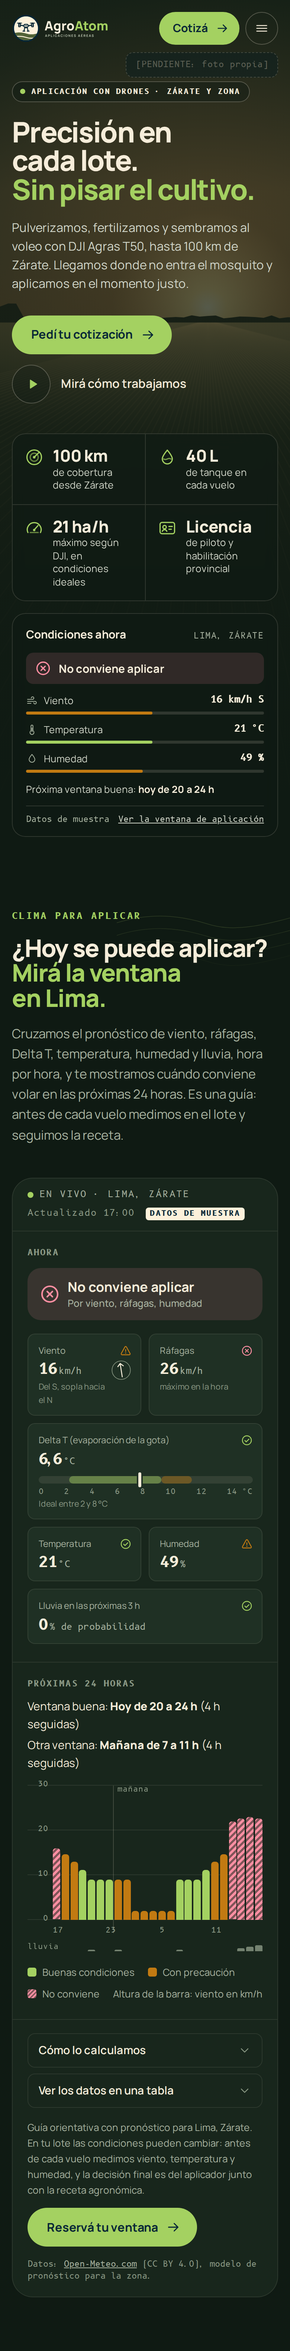
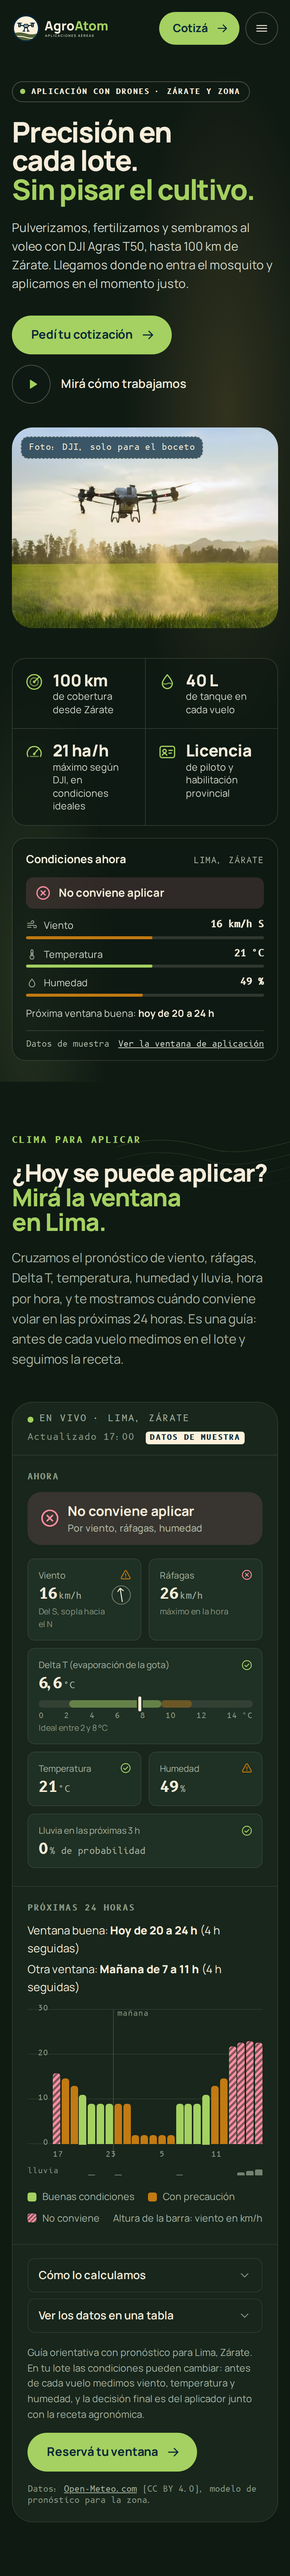
Portada con foto real del T50 enmarcada junto al título
- La portada pasa a dos columnas: texto a la izquierda y foto del T50
  pulverizando a la derecha; abajo, datos y tarjeta del clima (más
  compacta en compu). En celular la foto va debajo de los botones.
- La foto que mandó el equipo es chica (735 px), por eso va enmarcada y
  no de punta a punta. Versiones AVIF, WebP y JPG en 480 y 735 px.
- Es una foto de DJI: queda marcada como solo para el boceto hasta tener
  foto propia o permiso.

Claude-Session: https://claude.ai/code/session_01WNw3E6SvEfERqwPK9h1yFN

diff --git a/propuesta/boceto-portada/estilos.css b/propuesta/boceto-portada/estilos.css
@@ -260,22 +260,23 @@ h1, h2, h3, p { margin: 0; }
 
 .hero {
   position: relative; isolation: isolate;
-  min-height: max(100svh, 640px);
   display: flex; flex-direction: column;
   color: var(--texto);
 }
-.hero__media { position: absolute; inset: 0; z-index: -1; overflow: hidden; background: #2A2A1B; }
-.hero__media picture, .hero__media img { width: 100%; height: 100%; }
-.hero__media img { object-fit: cover; object-position: 50% 30%; }
-.hero__media::after {
-  content: ""; position: absolute; inset: 0;
+.hero__media {
+  position: absolute; inset: 0; z-index: -1; overflow: hidden;
   background:
-    linear-gradient(180deg, rgba(15, 26, 19, 0.7) 0%, rgba(15, 26, 19, 0.6) 22%, rgba(15, 26, 19, 0.8) 48%, rgba(15, 26, 19, 0.92) 70%, #0F1A13 100%);
+    radial-gradient(50% 45% at 78% 38%, rgba(232, 178, 92, 0.16), transparent 70%),
+    radial-gradient(40% 40% at 10% 90%, rgba(82, 99, 55, 0.35), transparent 70%),
+    #0F1A13;
 }
+
+.hero__foto { position: relative; margin: 32px 0 0; border-radius: var(--r-l); overflow: hidden; background: #1F3024; }
+.hero__foto img { width: 100%; height: auto; aspect-ratio: 4 / 3; object-fit: cover; object-position: 45% 45%; }
 .marcador-foto {
-  position: absolute; right: var(--margen); top: 70px; max-width: 260px;
-  padding: 8px 12px; border: 1px dashed rgba(253, 241, 219, 0.6); border-radius: var(--r-s);
-  background: rgba(6, 38, 54, 0.55);
+  position: absolute; left: 12px; top: 12px; max-width: calc(100% - 24px);
+  padding: 6px 10px; border: 1px dashed rgba(253, 241, 219, 0.6); border-radius: var(--r-s);
+  background: rgba(6, 38, 54, 0.72);
   font: 400 0.6875rem/1.45 var(--mono); letter-spacing: 0.04em; color: #FDF1DB;
 }
 .marcador-foto span { display: none; }
@@ -285,7 +286,7 @@ h1, h2, h3, p { margin: 0; }
   width: min(100% - 2 * var(--margen), var(--ancho)); margin-inline: auto;
   padding: 108px 0 28px;
 }
-.hero__texto { max-width: 800px; margin-top: auto; }
+.hero__texto { max-width: 800px; }
 .hero h1 { margin-top: 20px; font-size: clamp(2.375rem, 0.9rem + 4.4vw, 4.5rem); }
 .hero__bajada {
   margin-top: 20px; max-width: 36em;
@@ -389,7 +390,6 @@ h1, h2, h3, p { margin: 0; }
   .datos { grid-template-columns: repeat(4, minmax(0, 1fr)); }
   .datos li:nth-child(3) { border-left: 1px solid var(--linea); }
   .datos li:nth-child(n + 3) { border-top: 0; }
-  .marcador-foto { top: 92px; }
   .marcador-foto span { display: inline; }
 }
 @media (max-width: 420px) {
@@ -399,16 +399,26 @@ h1, h2, h3, p { margin: 0; }
   .pildora__opc { display: none; }
 }
 @media (min-width: 1080px) {
-  .hero__media img { object-position: 50% 50%; }
-  .hero__media::after {
-    background:
-      linear-gradient(90deg, rgba(15, 26, 19, 0.92) 0%, rgba(15, 26, 19, 0.72) 34%, rgba(15, 26, 19, 0.1) 62%, rgba(15, 26, 19, 0) 100%),
-      linear-gradient(180deg, rgba(15, 26, 19, 0.5) 0%, rgba(15, 26, 19, 0) 16%, rgba(15, 26, 19, 0) 70%, #0F1A13 100%);
+  .hero { min-height: max(100svh, 640px); }
+  .hero__in {
+    display: grid; grid-template-columns: minmax(0, 1.15fr) minmax(0, 0.85fr);
+    column-gap: 48px; row-gap: 28px; align-content: center; padding-top: 112px;
   }
-  .hero__in { padding-top: 132px; }
-  .hero__texto { margin-top: 0; margin-bottom: auto; }
-  .hero__pie { grid-template-columns: minmax(0, 1fr) 340px; align-items: end; gap: 24px; min-height: 270px; margin-top: 32px; }
-  .datos { align-self: end; }
+  .hero__texto { grid-column: 1; grid-row: 1; align-self: center; margin: 0; }
+  .hero h1 { font-size: clamp(2.375rem, 1rem + 3.4vw, 4rem); }
+  .hero__foto { grid-column: 2; grid-row: 1; margin: 0; align-self: center; box-shadow: 0 30px 80px rgba(0, 0, 0, 0.35); }
+  .hero__foto img { aspect-ratio: 735 / 641; }
+  .hero__pie { display: contents; }
+  .datos { grid-column: 1; grid-row: 2; align-self: start; }
+  .ahora {
+    grid-column: 2; grid-row: 2; align-self: start;
+    display: grid; grid-template-columns: minmax(0, 1fr) minmax(0, 1fr); column-gap: 20px; align-content: start;
+  }
+  .ahora__cab, .ahora__pie { grid-column: 1 / -1; }
+  .ahora .estado { grid-column: 1; }
+  .ahora__ventana { grid-column: 1; }
+  .ahora__filas { grid-column: 2; grid-row: 2 / span 2; margin-top: 12px; }
+  .bajar { grid-column: 1 / -1; grid-row: 3; margin-top: 4px; }
   .bajar { display: flex; }
 }
 

diff --git a/propuesta/boceto-portada/index.html b/propuesta/boceto-portada/index.html
@@ -8,8 +8,7 @@
 <meta name="robots" content="noindex">
 <meta name="theme-color" content="#0F1A13">
 <link rel="preload" href="fuentes/manrope.woff2" as="font" type="font/woff2" crossorigin>
-<link rel="preload" href="img/foto-pendiente-movil.svg" as="image" media="(max-width: 1079px)" fetchpriority="high">
-<link rel="preload" href="img/foto-pendiente.svg" as="image" media="(min-width: 1080px)" fetchpriority="high">
+<link rel="preload" as="image" type="image/avif" href="img/portada-t50-735.avif" imagesrcset="img/portada-t50-480.avif 480w, img/portada-t50-735.avif 735w" imagesizes="(min-width: 1080px) 520px, calc(100vw - 32px)" fetchpriority="high">
 <script>try{var t=localStorage.getItem("agroatom-tema");if(t==="light"||t==="dark")document.documentElement.dataset.theme=t}catch(e){}</script>
 <link rel="stylesheet" href="estilos.css">
 </head>
@@ -85,13 +84,7 @@
 <main id="contenido">
 
   <section class="hero" id="inicio" aria-labelledby="hero-titulo">
-    <div class="hero__media">
-      <picture>
-        <source media="(min-width: 1080px)" srcset="img/foto-pendiente.svg" width="1600" height="1000">
-        <img src="img/foto-pendiente-movil.svg" alt="" width="900" height="1500" fetchpriority="high">
-      </picture>
-      <p class="marcador-foto">[PENDIENTE: foto propia]<span> Piloto de espaldas con el control y el T50 pulverizando a contraluz, hora dorada.</span></p>
-    </div>
+    <div class="hero__media" aria-hidden="true"></div>
 
     <div class="hero__in">
       <div class="hero__texto">
@@ -109,6 +102,15 @@
           </button>
         </div>
       </div>
+
+      <figure class="hero__foto">
+        <picture>
+          <source type="image/avif" srcset="img/portada-t50-480.avif 480w, img/portada-t50-735.avif 735w" sizes="(min-width: 1080px) 520px, calc(100vw - 32px)">
+          <source type="image/webp" srcset="img/portada-t50-480.webp 480w, img/portada-t50-735.webp 735w" sizes="(min-width: 1080px) 520px, calc(100vw - 32px)">
+          <img src="img/portada-t50-735.jpg" srcset="img/portada-t50-480.jpg 480w, img/portada-t50-735.jpg 735w" sizes="(min-width: 1080px) 520px, calc(100vw - 32px)" width="735" height="641" alt="Drone DJI Agras T50 pulverizando un cultivo verde, con una línea de árboles al fondo" fetchpriority="high">
+        </picture>
+        <figcaption class="marcador-foto">Foto: DJI, solo para el boceto <span>[PENDIENTE: foto propia o permiso de DJI]</span></figcaption>
+      </figure>
 
       <div class="hero__pie">
         <ul class="datos" aria-label="El servicio en datos">

diff --git a/propuesta/PROPUESTA.md b/propuesta/PROPUESTA.md
@@ -122,7 +122,7 @@ Resultado de la validación: separación para daltonismo ΔE 8,4 en oscuro y 9,7
 | Referencia (Zenze) | AgroAtom | En el boceto |
 |---|---|---|
 | Logo con hoja | Logo horizontal oscuro (en modo claro cambia solo a marino y oliva) | Sí |
-| Productor con tablet | Piloto de espaldas con el control y el T50 pulverizando a contraluz | Marcador con guía de encuadre |
+| Productor con tablet | Foto real del T50 pulverizando, enmarcada a la derecha del título. Por ahora es una foto de DJI solo para el boceto: para publicar hace falta foto propia (ideal: 2400 px de ancho o más) o permiso de DJI | Sí |
 | Píldora "Smart solutions" | "Aplicación aérea con drones · Zárate y zona" | Sí |
 | Título en dos líneas | "Precisión en cada lote." / "Sin pisar el cultivo." en lima | Sí |
 | Dos botones | "Pedí tu cotización →" (WhatsApp) y "▶ Mirá cómo trabajamos" (video que carga recién al tocar) | Sí |
